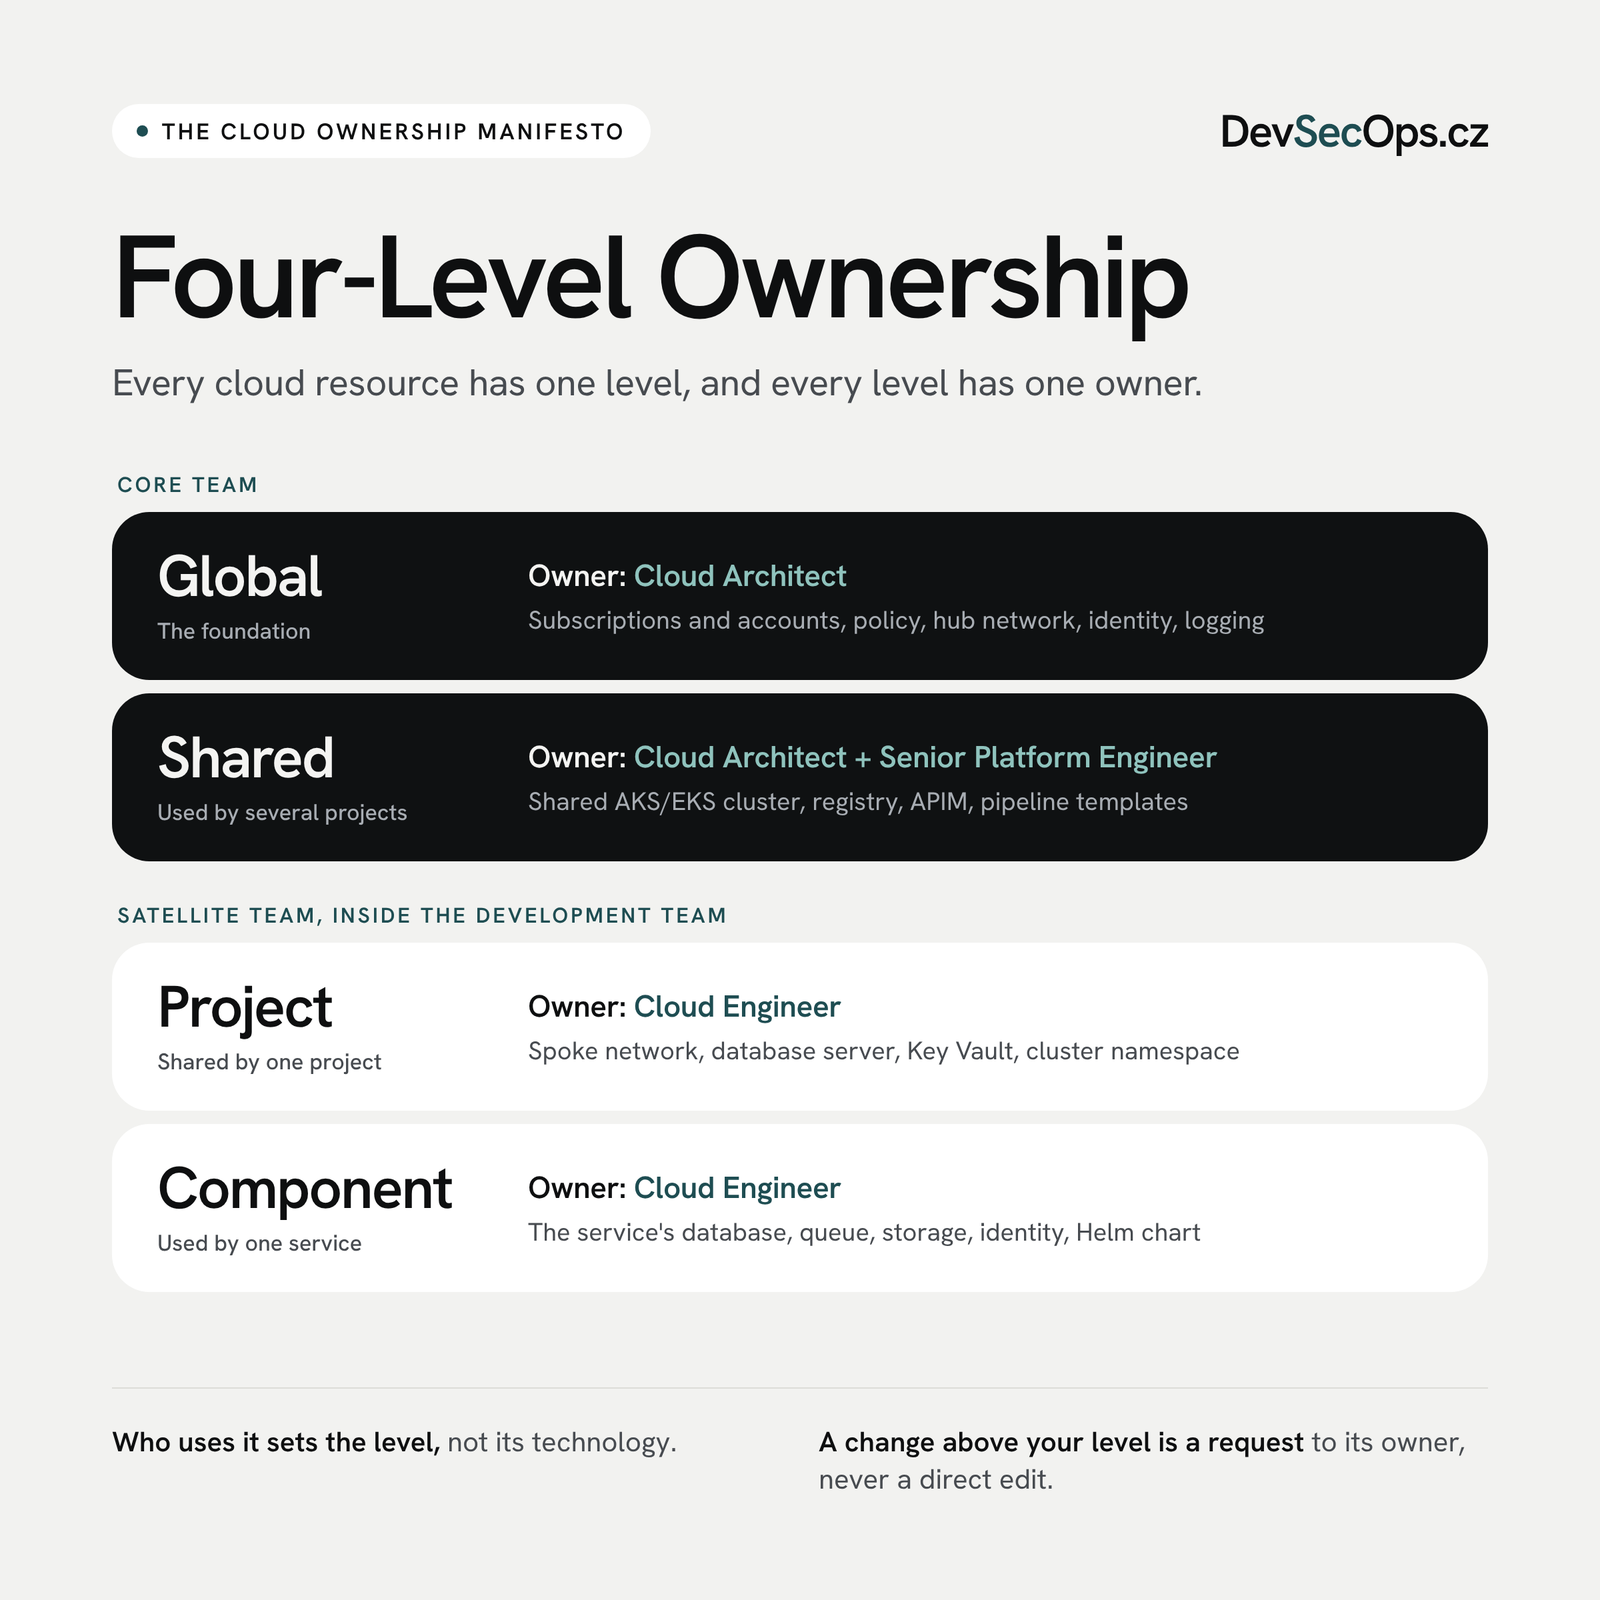
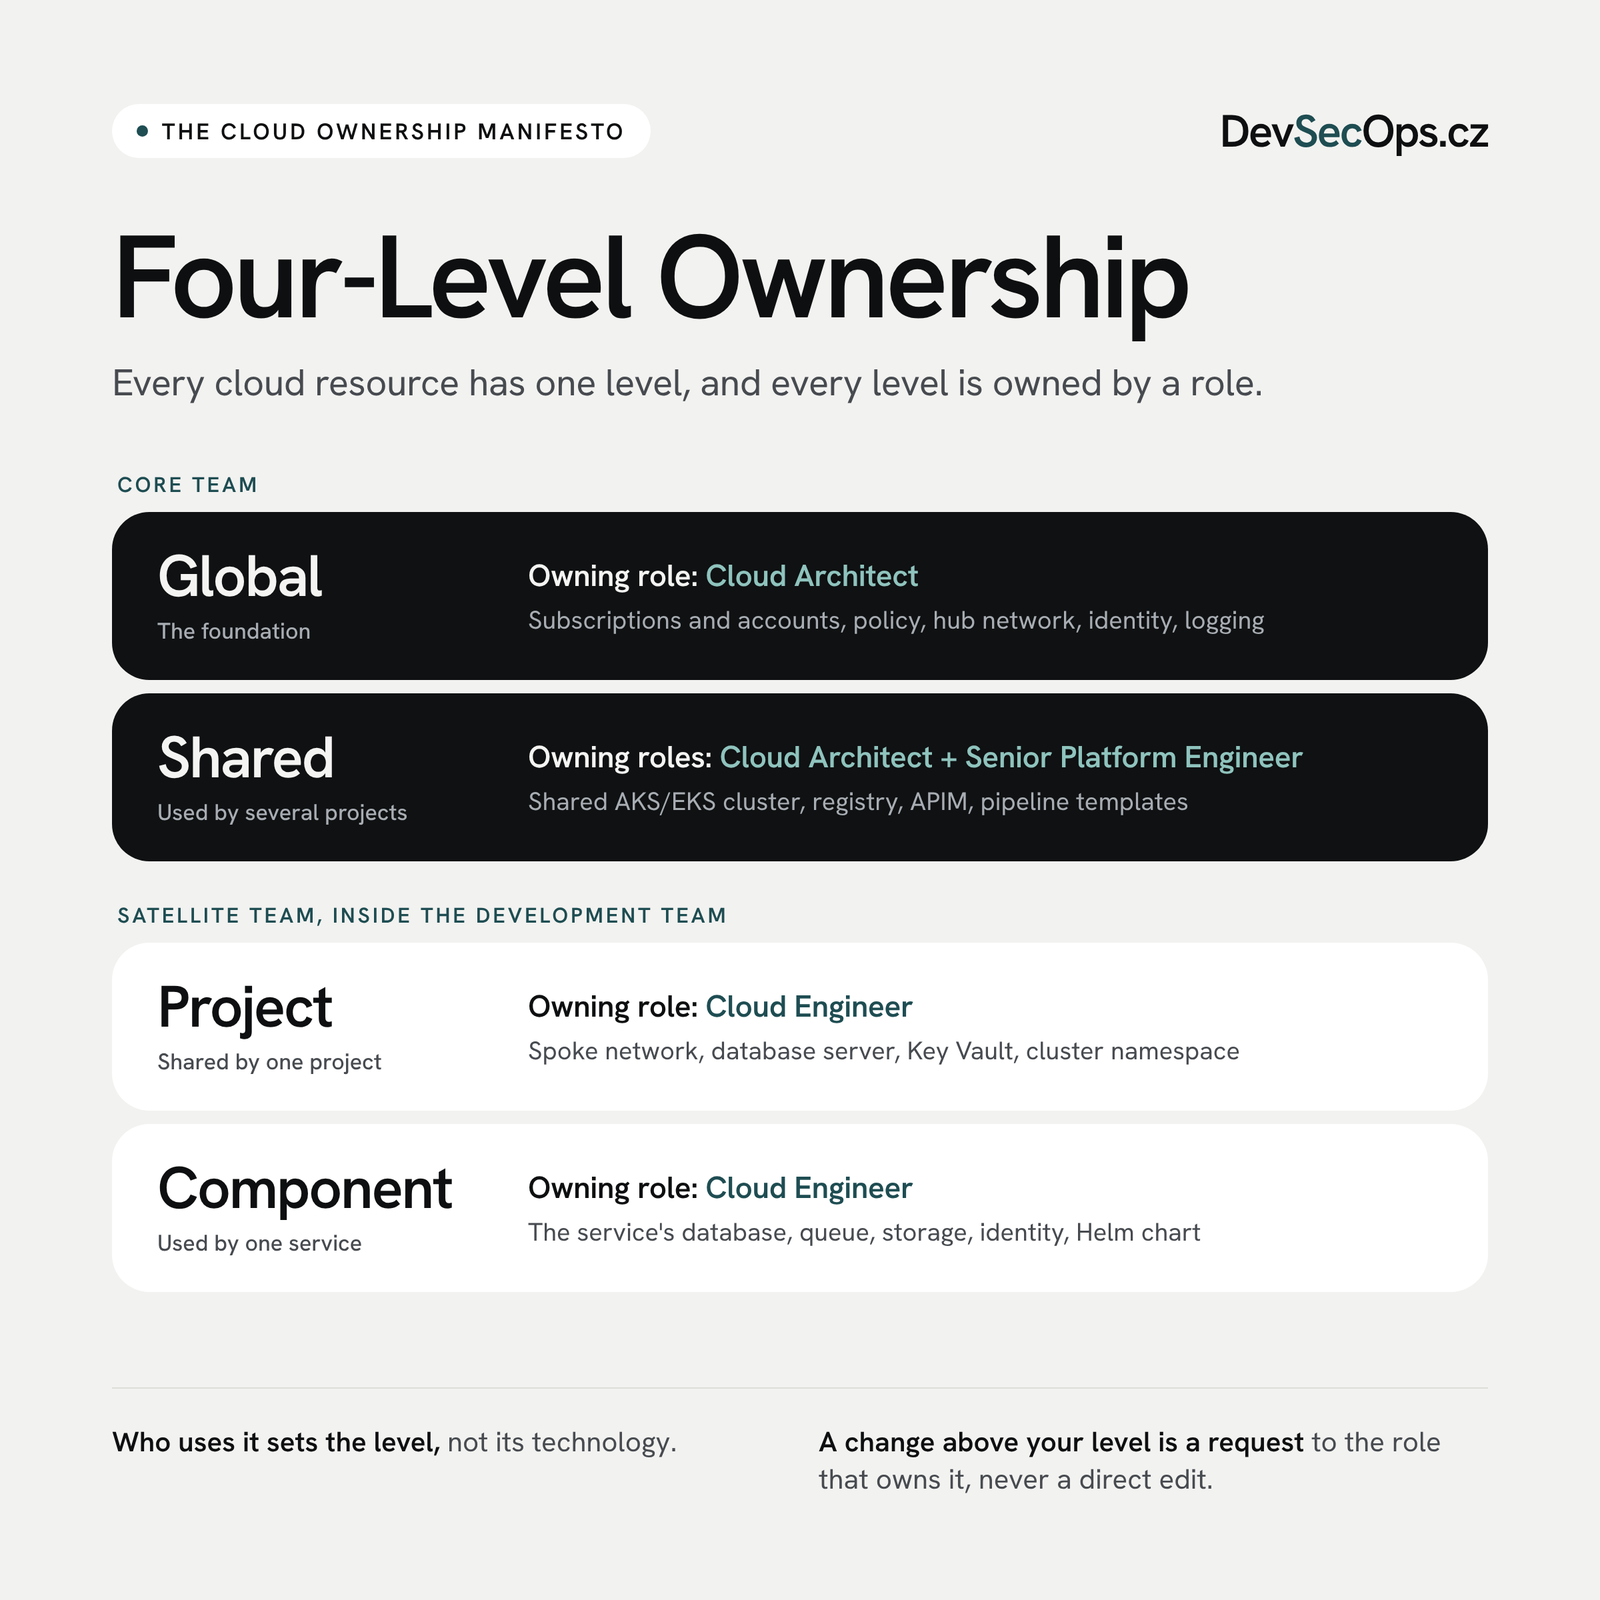
Levels are owned by a role, not by a person

diff --git a/PRINCIPLES.md b/PRINCIPLES.md
@@ -4,18 +4,18 @@ Each value in [The Cloud Ownership Manifesto](README.md) has one principle that 
 
 ## 1. Clear ownership levels
 
-We call this model **Four-Level Ownership**: every cloud resource belongs to exactly one of four levels, and every level has one owner.
+We call this model **Four-Level Ownership**: every cloud resource belongs to exactly one of four levels, and every level is owned by a role, not by a person.
 
-| Level | Scope | Examples | Owner |
+| Level | Scope | Examples | Owning role |
 | --- | --- | --- | --- |
 | Global | Foundation of the whole cloud | Management groups, subscriptions or accounts, policy, hub network, identity, central logging | Cloud Architect |
 | Shared | Components used by several projects | Shared AKS/EKS cluster and its add-ons, container registry, APIM, CI/CD templates | Cloud Architect and Senior Platform Engineer |
-| Project | Infrastructure of one project, shared by its components | Spoke network, database server, Key Vault, cluster namespace, alerts | Cloud Engineers (middle and junior) |
-| Component | Infrastructure of one service | The service's database, queue, storage, managed identity, app, Helm chart | Cloud Engineers (middle and junior) |
+| Project | Infrastructure of one project, shared by its components | Spoke network, database server, Key Vault, cluster namespace, alerts | Cloud Engineer |
+| Component | Infrastructure of one service | The service's database, queue, storage, managed identity, app, Helm chart | Cloud Engineer |
 
 - The level is set by who uses a resource, not by its technology. Used by one service → Component; by several services of a project → Project; by several projects → Shared; the foundation → Global.
 - Everyone works on their own level. The architect does not write component Terraform; a junior does not choose the network topology.
-- A change above your level is a request to that level's owner, never a direct edit.
+- A change above your level is a request to the role that owns that level, never a direct edit.
 
 DevOps is our culture, not a job title. Roles are named after what they own:
 
